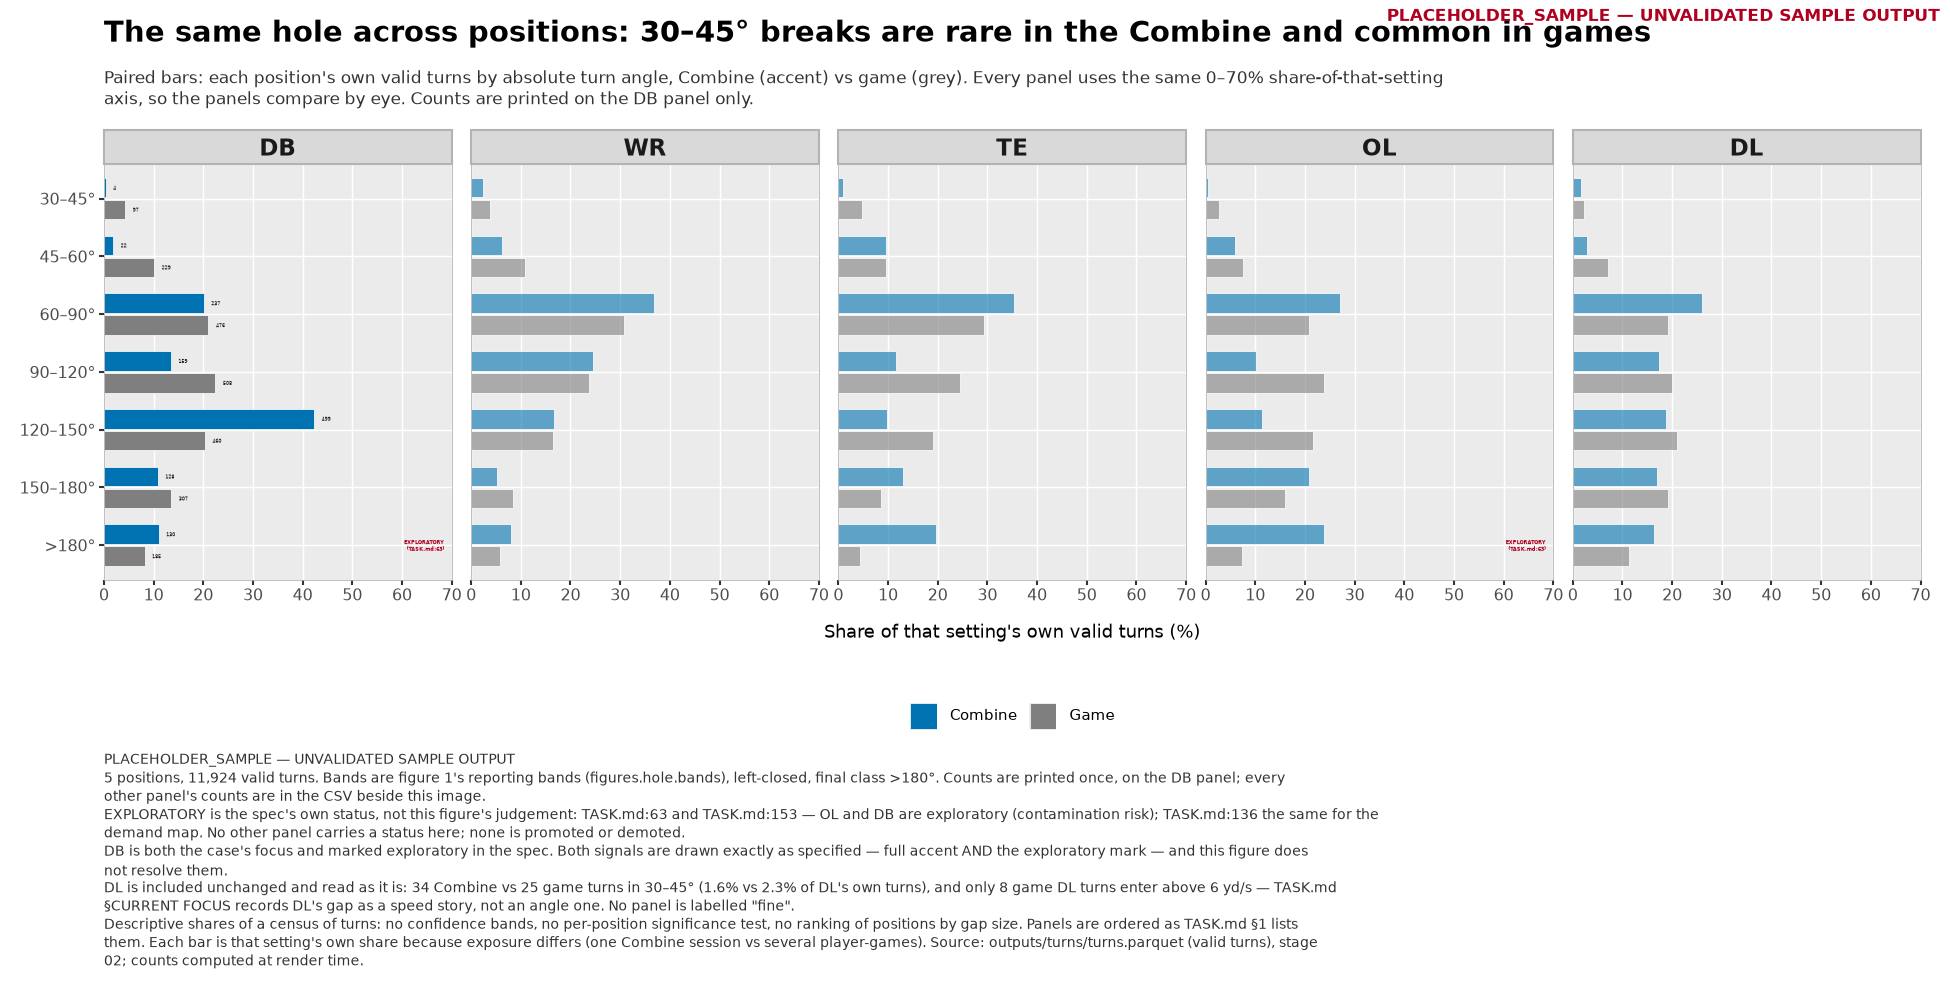
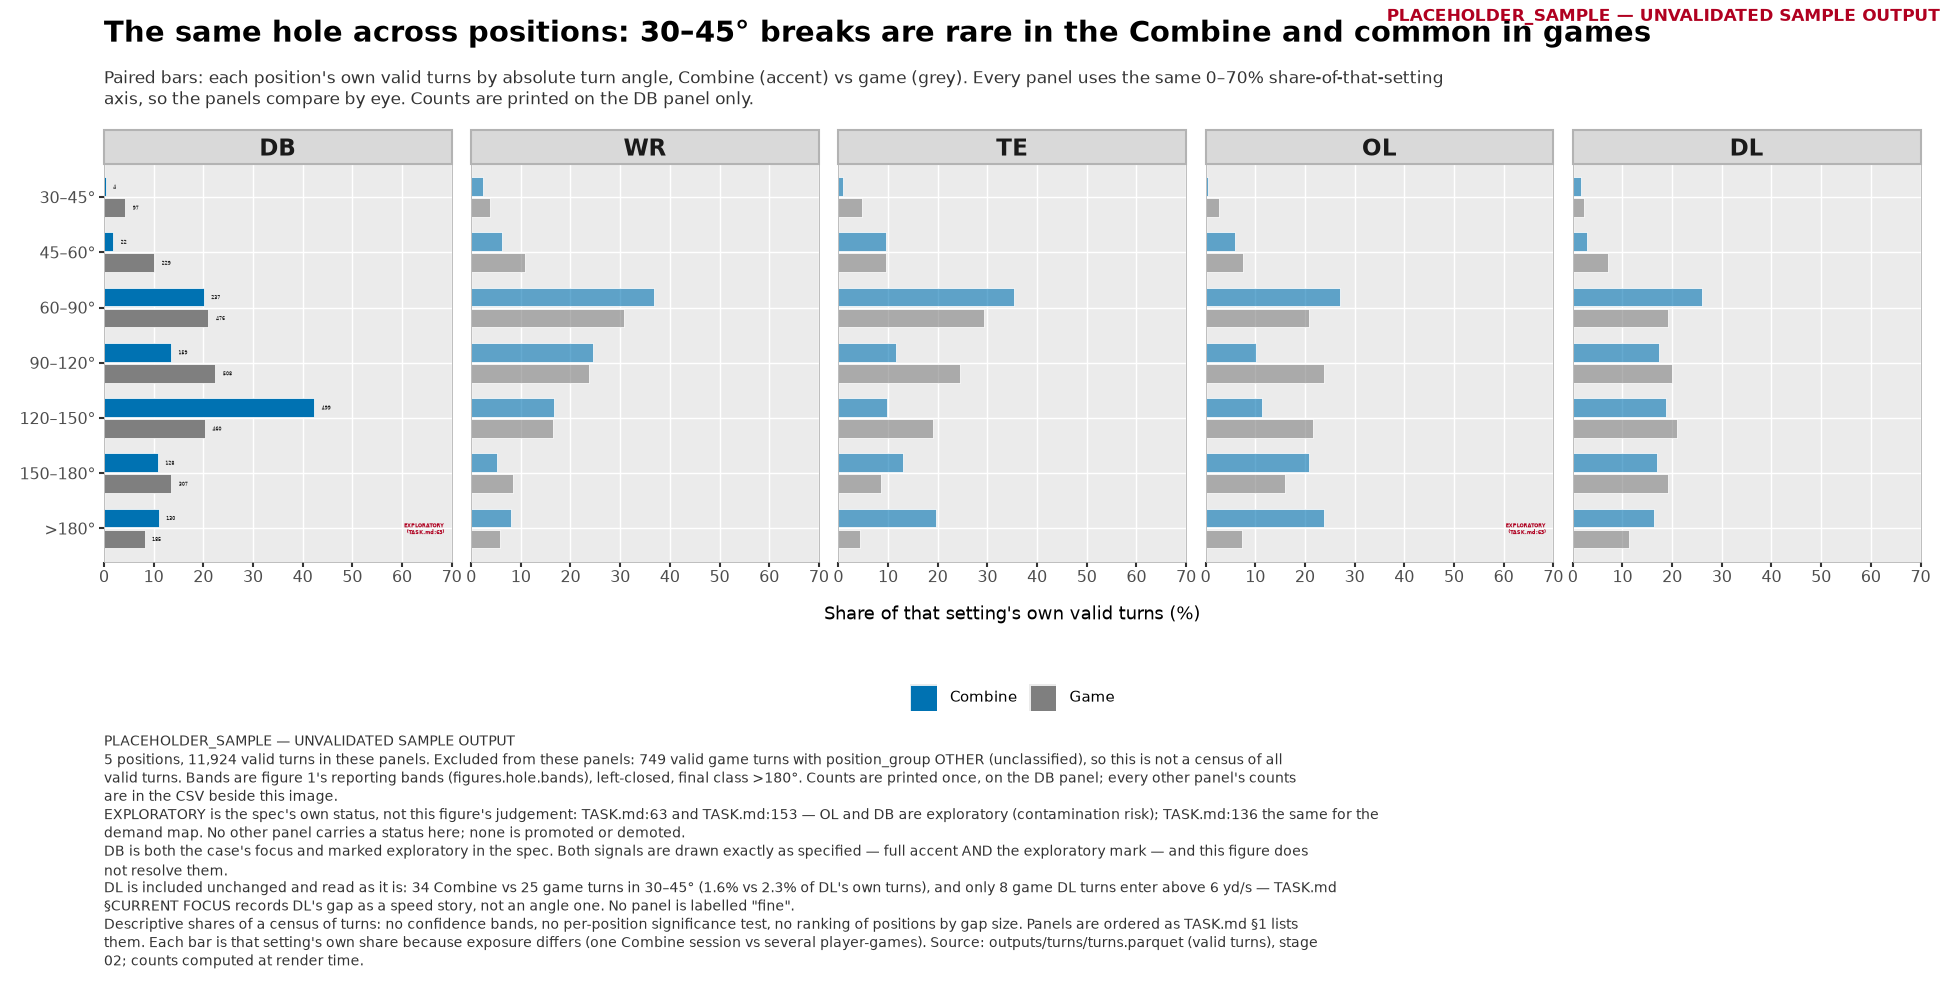
figure 5 caption: name the 749 game turns outside the five panels
The caption said "11,924 valid turns" for five panels while turns.parquet
holds 12,673 valid turns. The missing 749 are game turns whose position_group
is OTHER (unclassified), outside the five plotted positions. The caption now
names that excluded count and says the figure is not a census of all valid
turns. No other change to figure 5.

Adds a test that moves seven DB game turns to OTHER and asserts the caption's
excluded count and plotted total both follow. 144 tests.

Changed region(s): [[0.0, 0.2121, 1.0, 0.6667], [0.0308, 0.697, 0.6769, 0.8182], [0.0308, 0.1818, 0.0615, 0.2121]]

diff --git a/tests/test_figures_stage.py b/tests/test_figures_stage.py
@@ -1050,6 +1050,34 @@ def test_all_positions_caption_states_what_dl_shows(rendered):
     assert "fine" in man["figures"][AP_KEY]["claim"]
 
 
+def test_all_positions_caption_names_the_turns_outside_the_panels(rendered):
+    """The count is not a census: unclassified game turns are named."""
+    from bdb27 import figures
+    turns = pd.read_parquet(rendered["tmp"] / "outputs" / "turns" / "turns.parquet")
+    (table, context), cfg = _ap_cells(turns, rendered["cfg"])
+    caption = figures.plot_all_positions(table, context, cfg, turns=turns
+                                         ).labels.get("caption", "")
+    flat = " ".join(caption.split())
+    assert (f"Excluded from these panels: {context['n_excluded']:,} valid game "
+            "turns with position_group OTHER") in flat
+    assert "not a census of all valid turns" in flat
+
+    # Move seven DB game turns to OTHER: the caption's excluded count and the
+    # plotted total must both follow, or the clause is decorative.
+    tweaked = turns.copy()
+    idx = tweaked.index[(tweaked["position_group"] == "DB")
+                        & (tweaked["setting"] == "game")][:7]
+    tweaked.loc[idx, "position_group"] = "OTHER"
+    (t2, context2), cfg2 = _ap_cells(tweaked, rendered["cfg"])
+    caption2 = figures.plot_all_positions(t2, context2, cfg2, turns=tweaked
+                                          ).labels.get("caption", "")
+    flat2 = " ".join(caption2.split())
+    assert context2["n_excluded"] == context["n_excluded"] + 7
+    assert (f"{context2['n_excluded']:,} valid game turns with position_group "
+            "OTHER") in flat2
+    assert context2["n_turns"] == context["n_turns"] - 7
+
+
 def test_all_positions_leaves_figures_1_to_4_untouched(rendered):
     keys = ["png", "drill_png", "ba_png", "ds_png"]
     before = {k: hashlib.sha256(rendered[k].read_bytes()).hexdigest()

diff --git a/src/bdb27/figures.py b/src/bdb27/figures.py
@@ -1849,6 +1849,11 @@ def positions_table(turns: pd.DataFrame, edges: list[float],
         "edges": [float(e) for e in edges],
         "per_position": per_position,
         "n_turns": int(table["count"].sum()),
+        # Valid turns outside the plotted positions: every one of these must be
+        # named in the caption, or "11,924 valid turns" would read as a census.
+        "n_excluded": int(
+            (turns["valid"].fillna(False).astype(bool)
+             & ~turns["position_group"].isin(positions)).sum()),
     }
     return table, context
 
@@ -2004,8 +2009,11 @@ def plot_all_positions(table: pd.DataFrame, context: dict, cfg: common.Config,
 
     caption_lines = [
         STAMP,
-        (f"{n_positions} positions, {n_turns:,} valid turns. Bands are figure 1's "
-         f"reporting bands (figures.hole.bands), left-closed, final class >180°. "
+        (f"{n_positions} positions, {n_turns:,} valid turns in these panels. "
+         f"Excluded from these panels: {context['n_excluded']:,} valid game "
+         "turns with position_group OTHER (unclassified), so this is not a "
+         "census of all valid turns. Bands are figure 1's reporting bands "
+         "(figures.hole.bands), left-closed, final class >180°. "
          f"Counts are printed once, on the {emphasis} panel; every other "
          "panel's counts are in the CSV beside this image."),
         (f"{EXPLORATORY_LABEL} is the spec's own status, not this figure's "
